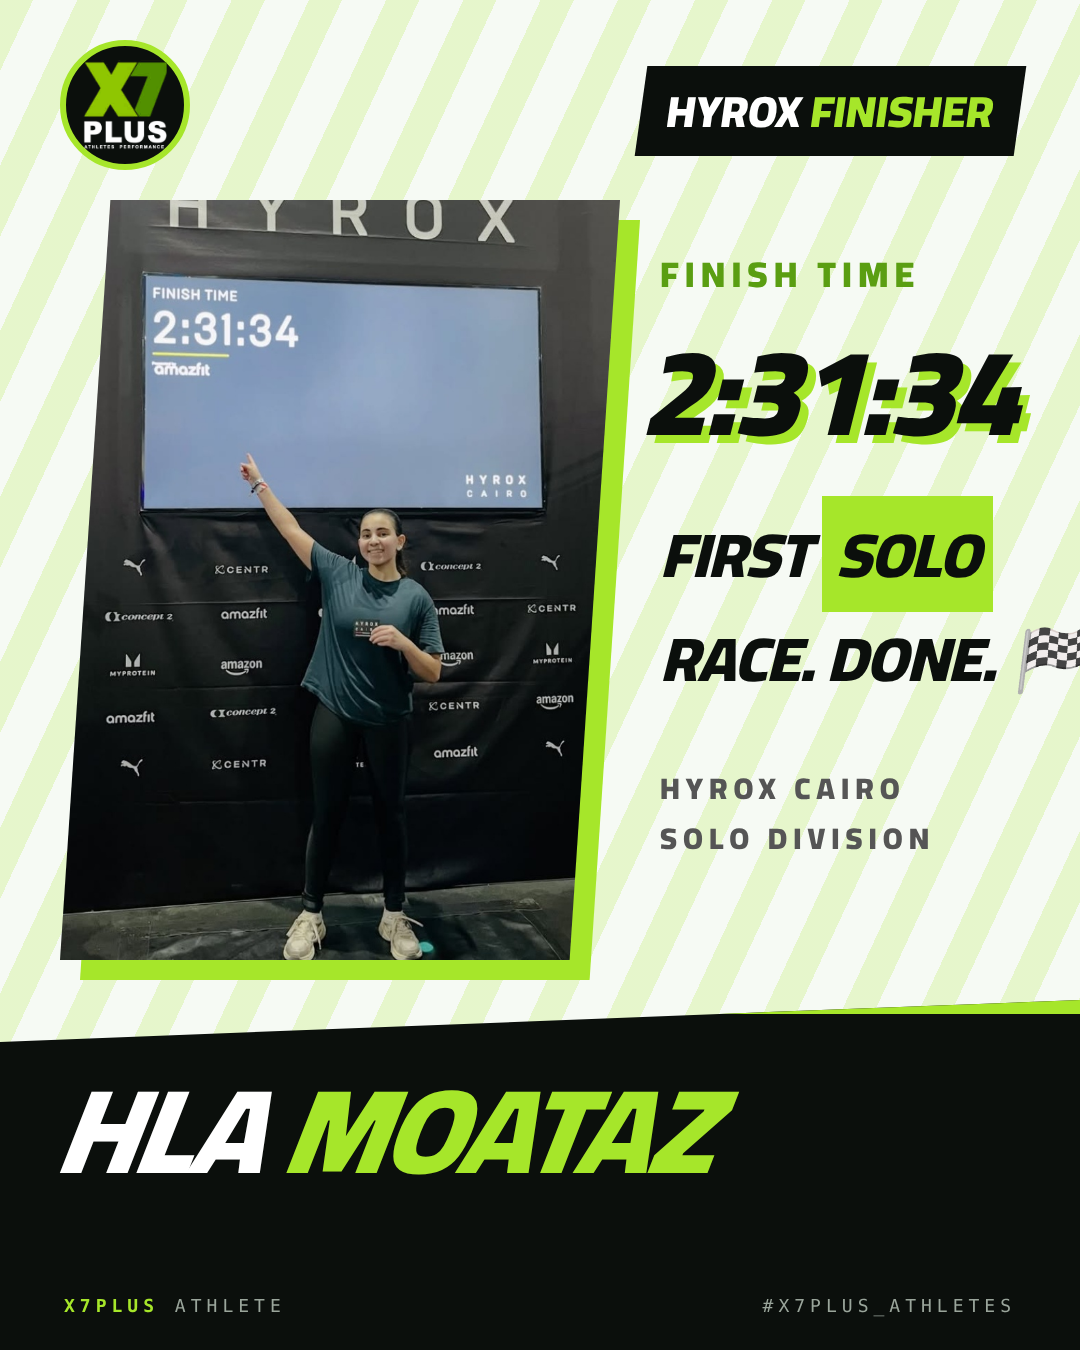
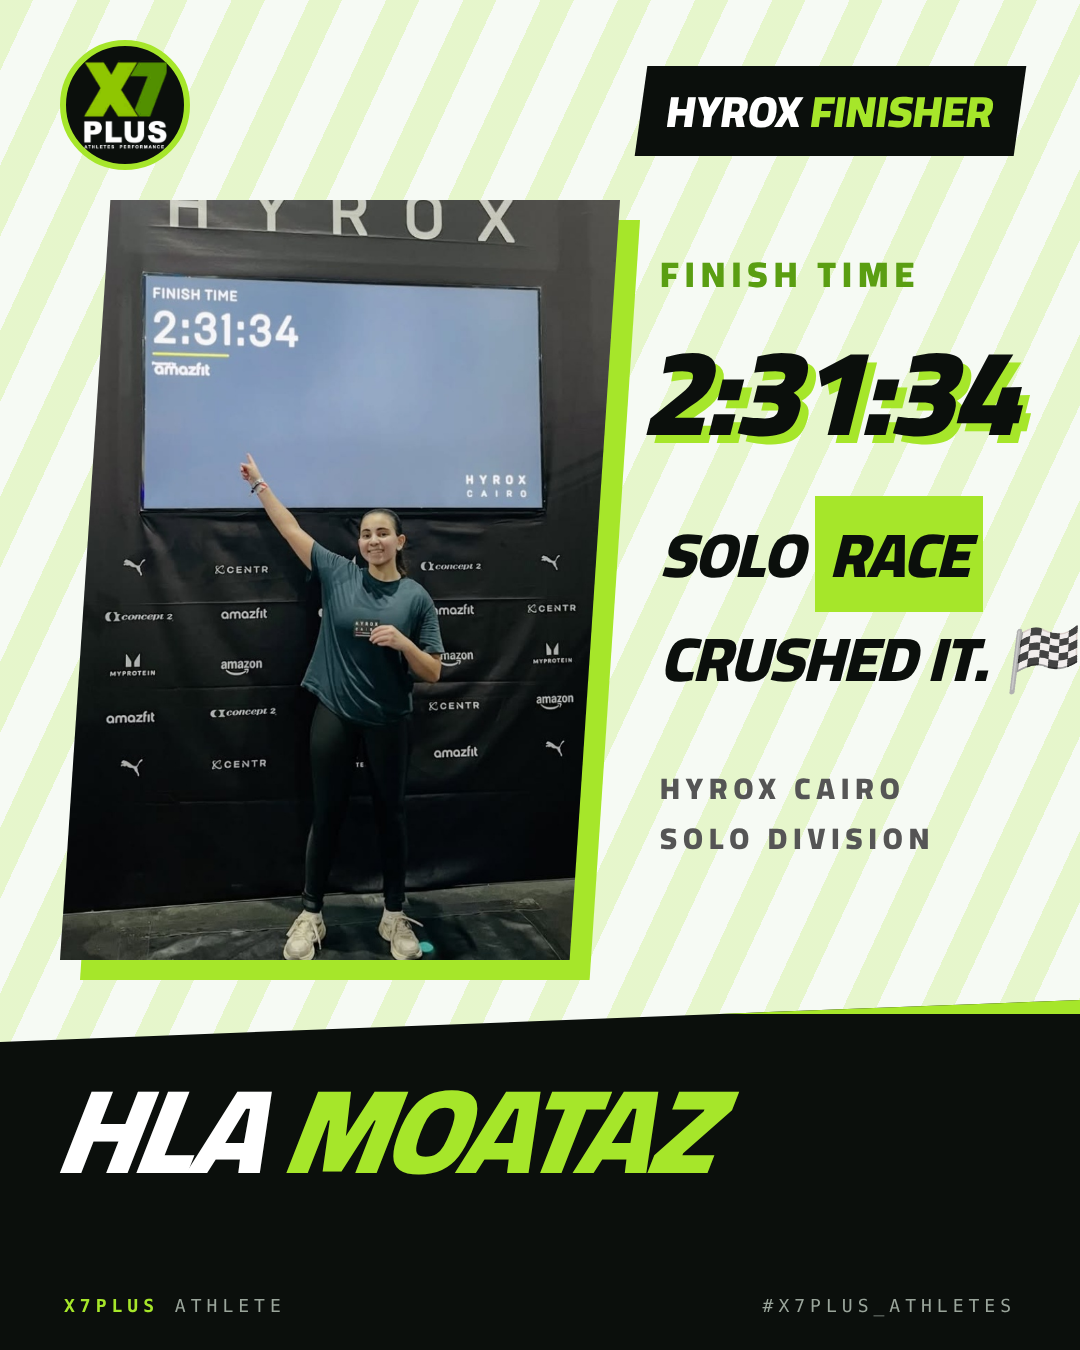
Hla Moataz post: drop 'first race' wording
Claude-Session: https://claude.ai/code/session_01S3ChKFh5yz7vU8VsDH4XAg

Changed region(s): [[0.6111, 0.3733, 1.0, 0.5289]]

diff --git a/athletes/hla-moataz/post.html b/athletes/hla-moataz/post.html
@@ -28,8 +28,8 @@ body{width:1080px;height:1350px;position:relative;overflow:hidden;background:#f6
 <div class="a photo"><img src="photo.jpg"></div>
 <div class="a lbl" style="top:240px;font-size:36px;letter-spacing:6px;color:var(--gd)">FINISH TIME</div>
 <div class="a time">2:31:34</div>
-<div class="a lbl" style="top:520px;font-size:62px;font-style:italic;letter-spacing:-1px;line-height:1.1">FIRST <span style="background:var(--g);padding:0 14px">SOLO</span></div>
-<div class="a lbl" style="top:600px;font-size:62px;font-style:italic;letter-spacing:-1px">RACE. DONE. 🏁</div>
+<div class="a lbl" style="top:520px;font-size:62px;font-style:italic;letter-spacing:-1px;line-height:1.1">SOLO <span style="background:var(--g);padding:0 14px">RACE</span></div>
+<div class="a lbl" style="top:600px;font-size:62px;font-style:italic;letter-spacing:-1px">CRUSHED IT. 🏁</div>
 <div class="a lbl" style="top:760px;font-size:30px;letter-spacing:6px;color:#555">HYROX CAIRO</div>
 <div class="a lbl" style="top:810px;font-size:30px;letter-spacing:6px;color:#555">SOLO DIVISION</div>
 <div class="a band"></div>
